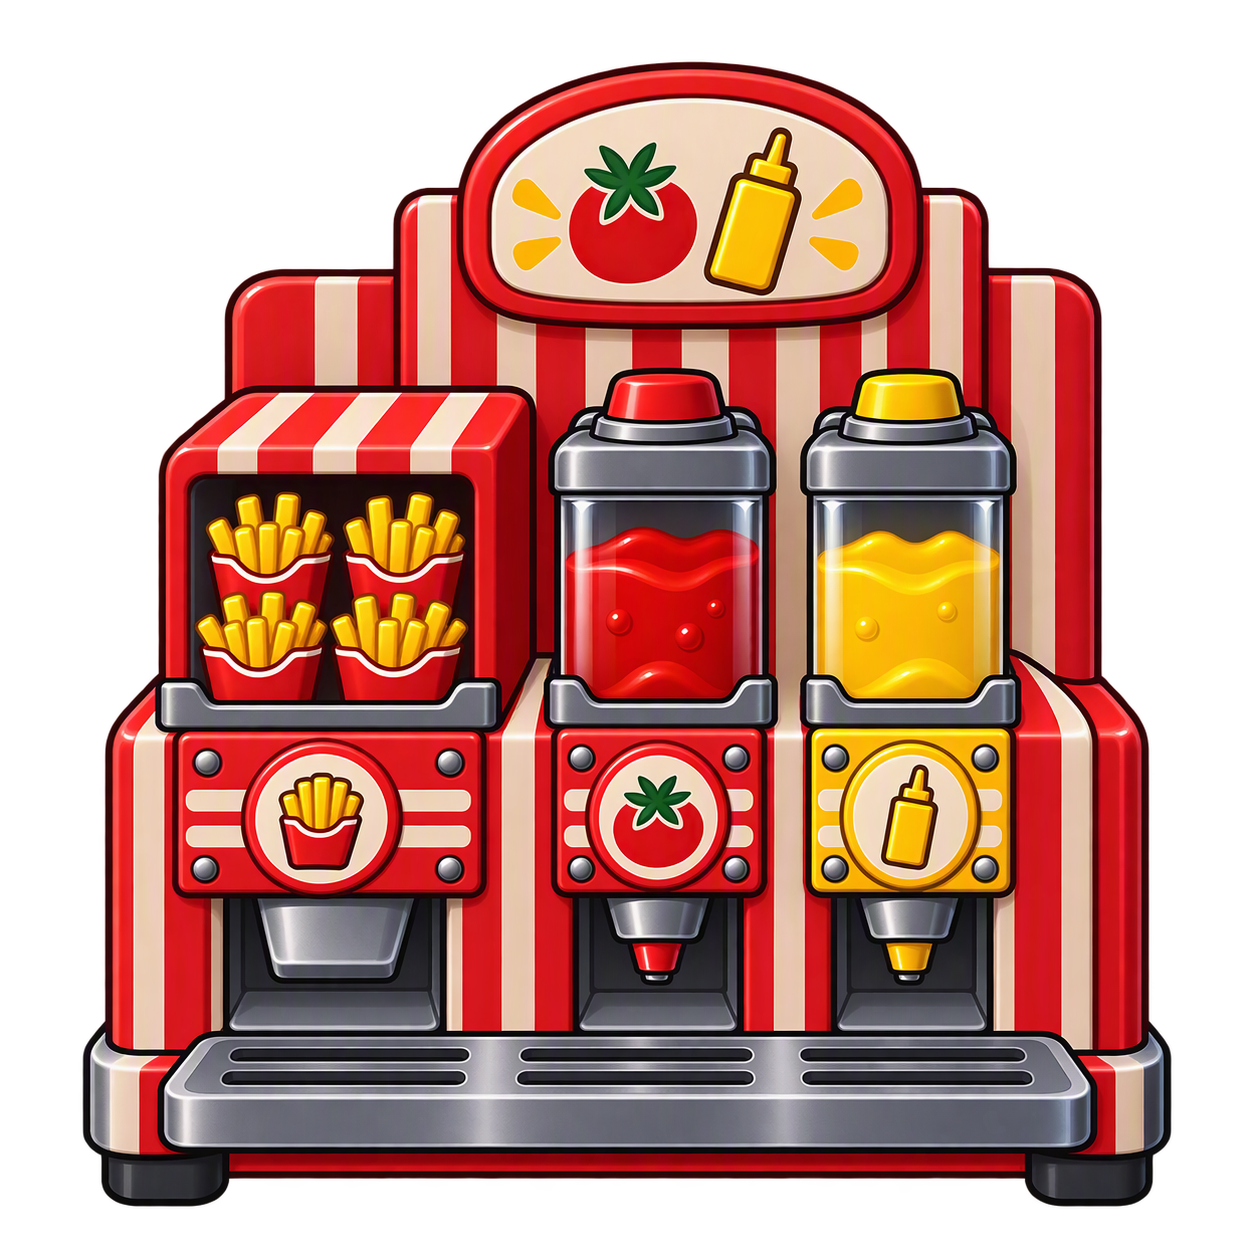
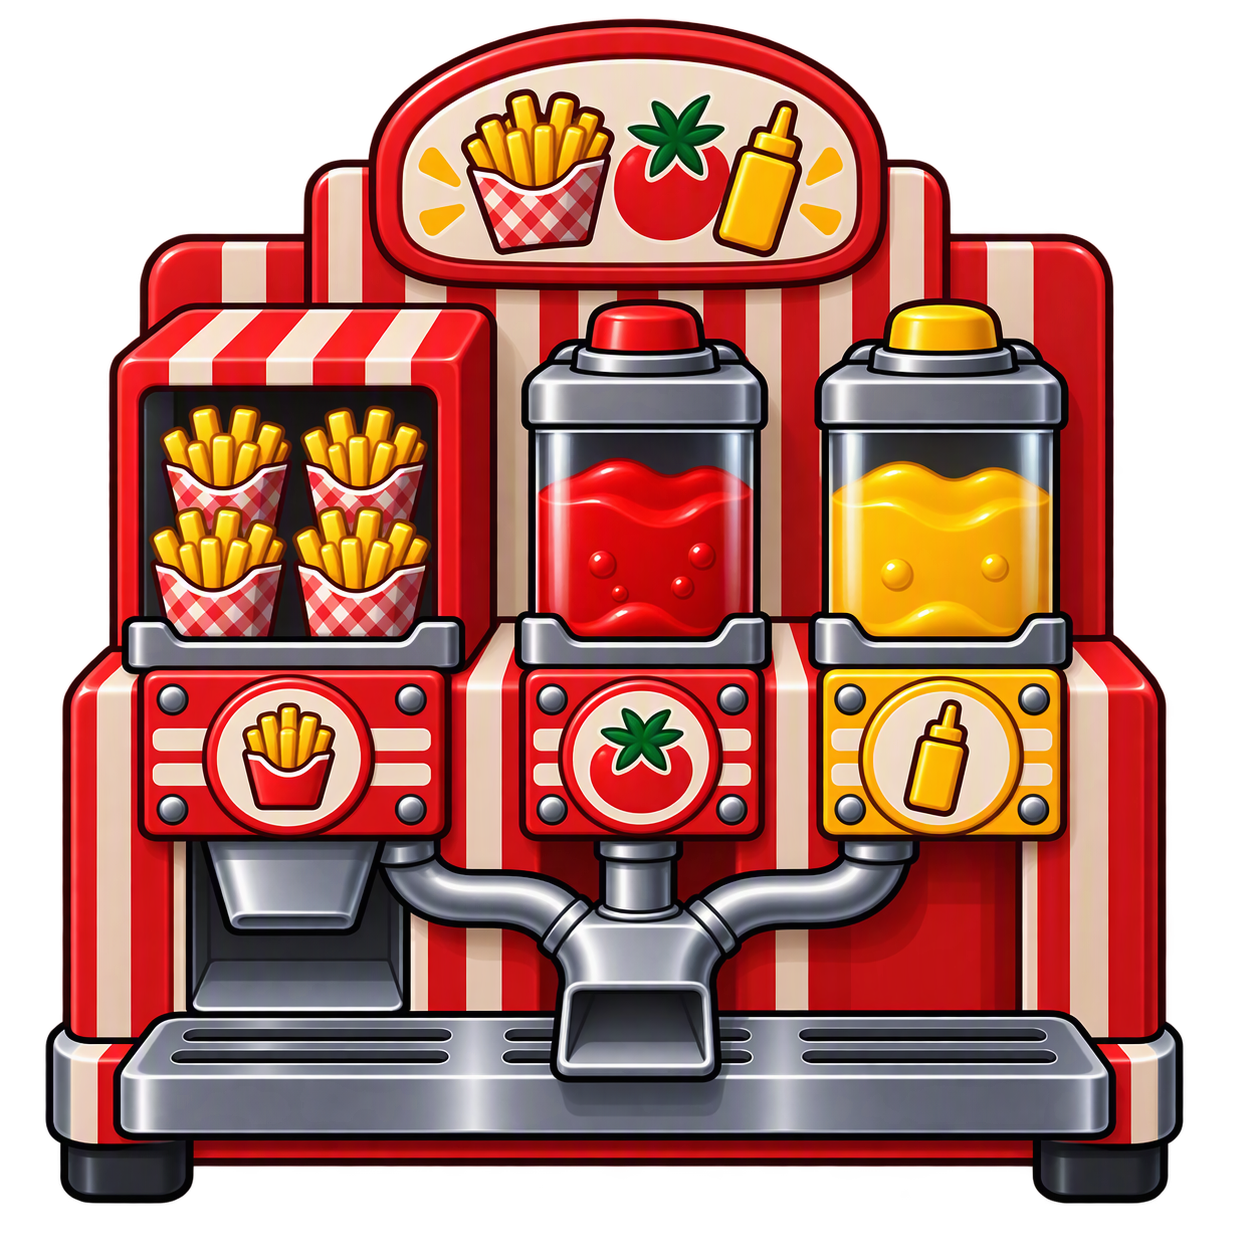
style: changed machines assets and added ham button.

diff --git a/src/main/java/com/project/burger/view/StationsView.java b/src/main/java/com/project/burger/view/StationsView.java
@@ -26,10 +26,17 @@ public class StationsView extends HBox {
         // 1. Shape (Classic, Baguette, Bagel)
         getChildren().add(createStation("Shape", createShapeButtons(stationController)));
 
-        // 2. Meat (Carne)
-        Button meatButton = createImageButton("/assets/ingredient_patty.png", 35);
-        meatButton.setOnAction(event -> stationController.addMeat());
-        getChildren().add(createStation("Meat", meatButton));
+        // 2. Meat (Carne & Prosciutto)
+        Button pattyButton = createImageButton("/assets/ingredient_patty.png", 35);
+        pattyButton.setOnAction(event -> stationController.addAddition(IngredientType.PATTY)); // o stationController.addMeat() per Patty
+
+        Button hamButton = createImageButton("/assets/ingredient_ham.png", 35);
+        hamButton.setOnAction(event -> stationController.addAddition(IngredientType.HAM));
+
+        HBox meatGroup = new HBox(5, pattyButton, hamButton);
+        meatGroup.setAlignment(Pos.CENTER);
+
+        getChildren().add(createStation("Meat", meatGroup));
 
         // 3. Additions 1 (Verdure: Lattuga, Cipolla, Pomodoro)
         getChildren().add(createStation("Additions", createVeggieButtons(stationController)));
